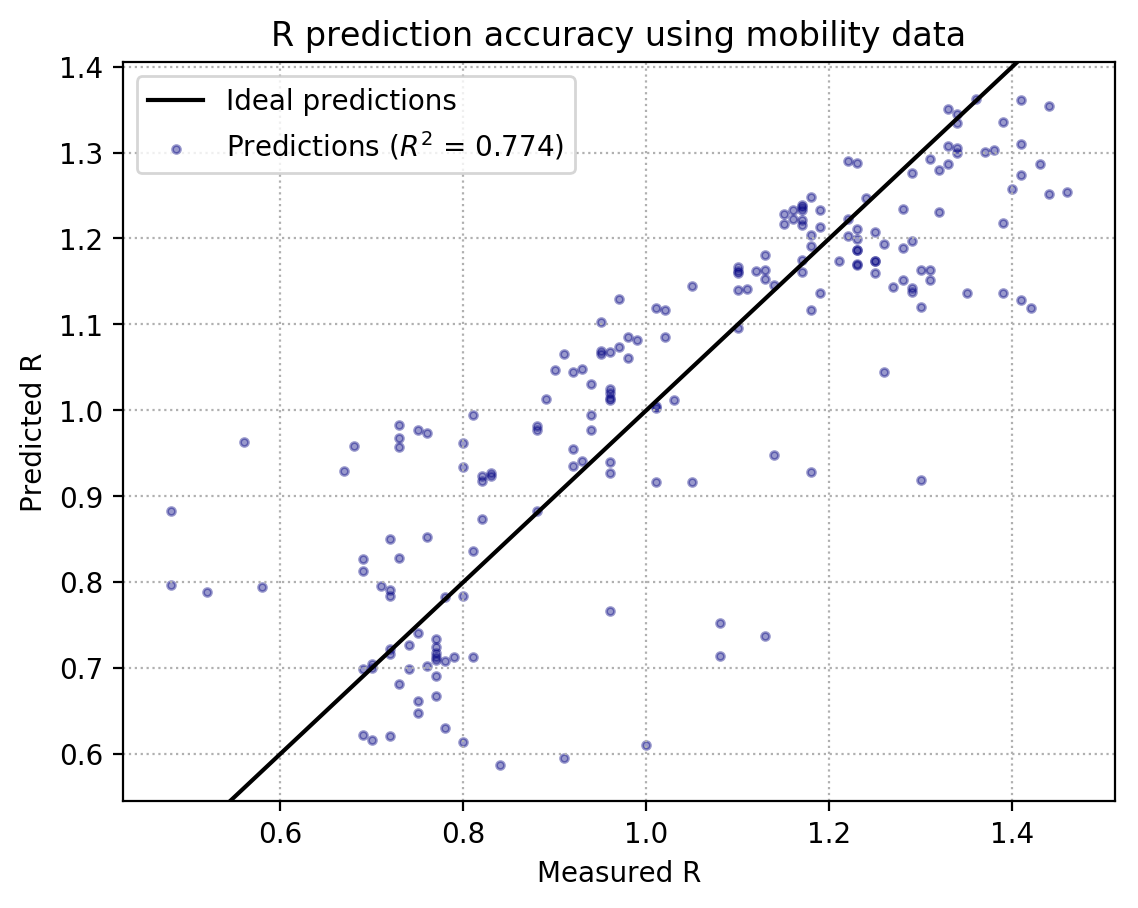
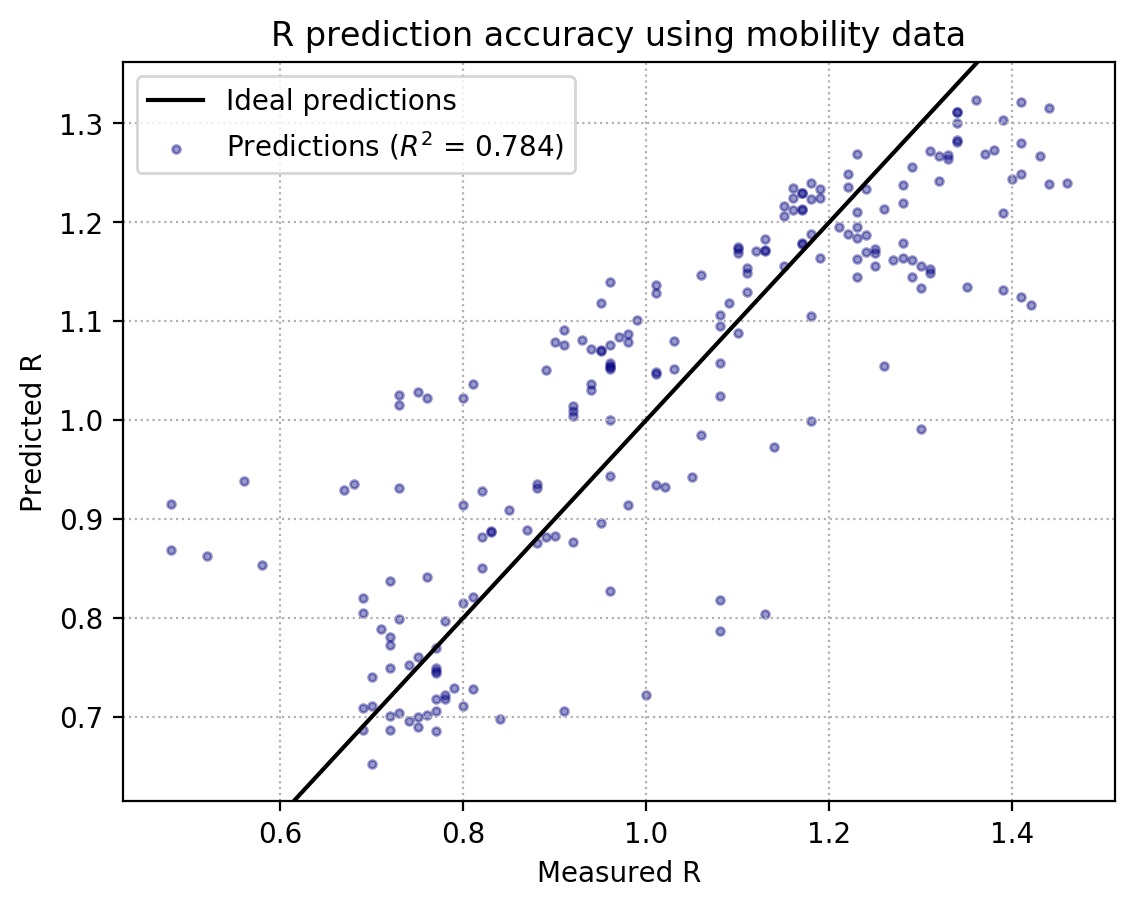
Updated figures

diff --git a/model_coronavirus_supression.py b/model_coronavirus_supression.py
@@ -212,7 +212,7 @@ def load_mobility_data(smooth = False, smoothsize = 7):
 	### now load the apple data
 	#the url changes to the most recent date of availability, so we need to scan
 	#several urls of the past few days
-	apple_mobility_url_base = 'https://covid19-static.cdn-apple.com/covid19-mobility-data/2019HotfixDev35/v3/en-us/applemobilitytrends-'
+	apple_mobility_url_base = 'https://covid19-static.cdn-apple.com/covid19-mobility-data/2021HotfixDev11/v3/en-us/applemobilitytrends-'
 
 	today = dt.datetime.now().date()
 	apple_mob_fname = f'{dataloc}applemobilitytrends-'
@@ -1127,12 +1127,12 @@ def estimate_recent_R():
 	df_mob_R = df_mob_R.join(df_sewage[['RNA_flow_smooth']], how = 'outer')
 
 	#select date range
-	enddate_train = '2020-10-10'
+	enddate_train = '2020-10-25'
 	mask = (df_mob_R.index > '2020-04-01') & (df_mob_R.index <= enddate_train)
 	df_train = df_mob_R.loc[mask]
 	df_pred = df_mob_R.loc[df_mob_R.index > '2020-07-01']
 
-	print(f'WARNING: end date for training set is {enddate_train}')
+	print(f'WARNING: end date for R training set is {enddate_train}')
 
 
 	key_names = {
@@ -1324,9 +1324,11 @@ def estimate_recent_prevalence():
 	#section where the prevalence flattens (seems unrealistic)
 	#need to select after 2020-09-06 because that's when the sewage measurements change to per 100.000
 	startdate = '2020-09-08'
-	enddate = '2020-10-25'
+	enddate = '2020-11-01'
 	df_predictors_sel = df_predictors.loc[(df_predictors.index > startdate) & (df_predictors.index < enddate)]
 	df_prevalence_sel = df_prevalence.loc[(df_prevalence.index > startdate) & (df_prevalence.index < enddate)]
+
+	print(f'WARNING: end date for prevalence training set is {enddate}')
 
 
 	#discard days with too low number of positive tests per million for determining the correlation
